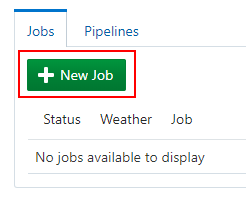
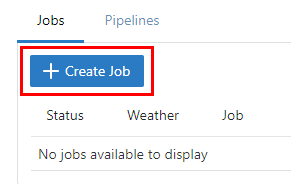
Updates for new trials

Changed region(s): [[0.0569, 0.0272, 1.0, 0.6793], [0.0569, 0.7337, 1.0, 0.9511], [0.3415, 0.0815, 0.5691, 0.1902]]

diff --git a/workshops/devcs-mysql/Lab100.md b/workshops/devcs-mysql/Lab100.md
@@ -406,7 +406,7 @@ In this step Software Templates define what supporting software packages get inc
   "user_ocid":"USER-HERE"
   ```
 
-  Becomes: **NOTE:** The values stay in double quotes
+  Becomes: **NOTE:** The values stay in double quotes:
 
   ```
   "user_ocid":"ocid1.user.oc1..aaaaaaaazusfrxnxk3qx3fxxx75ynagfsmtdoorkfffb2hqu6rxnxcfjpcwa"
@@ -420,22 +420,22 @@ In this step Software Templates define what supporting software packages get inc
 
   ```
   "region": "<your-region>"
-  "base_image_ocid": "<The OCID of the base image associated with your region. The comments section at the top of the file contains the default values... the current default is for the ASHBURN region>"
+  "base_image_ocid": "<The OCID of the base image associated with your region. The comments section at the top of the file contains the values... the current default is for the ASHBURN region>"
   ```
 
-- Click the **Commit** button. Also click **Commit** at the pop up dialog prompt.
+- Click the **Commit** button. Also, **add a comment** and click **Commit** at the pop up dialog prompt.
 
    ![](images/100/56.PNG)
 
-### **Step 10**: Build the Packer job
+### **Step 11**: Build the Packer job
 
-In this step you will define a Packer build using the Software Template you created in Step 7. This will build and create a Custom Image with MYSQL installed into your Compute Service.
+In this step you will define a Packer build using the Software Template you created in Step 7. This will build and create a Custom Image with MYSQL, GIT, and Docker installed into your Compute Service compartment.
 
-- From the project menu click the **Build** link.
+- From the project menu click the **Builds** link.
 
    ![](images/100/57.PNG)
 
-- Click **New Job**.
+- Click **+Create Job**.
 
    ![](images/100/58.PNG)
 
@@ -449,13 +449,11 @@ In this step you will define a Packer build using the Software Template you crea
 
    ![](images/100/59.PNG)
 
-- Under the Source Control tab select **Git** and then choose the **MYSQL-PackerTerraform.git** repository.
+- Under the Git tab select **Add Git** and then choose the **MYSQL-PackerTerraform.git** repository.
 
   ![](images/100/60.PNG)
 
-  ![](images/100/61.PNG)
-
-- Select the **Builders** tab and choose **Unix Shell Builder**.
+- Select the **Steps** tab and choose **Unix Shell**.
 
   ![](images/100/62.PNG)
 
@@ -473,7 +471,9 @@ In this step you will define a Packer build using the Software Template you crea
 
   The script fires off a Packer build based on the `build.json` contents and then places the OCID of the newly created Custom Image into an environment variable which can be referenced from other builds.
 
-- Select the **Post Build** tab and add the **Artifact Archiver** Post Build Action. Enter the following into the **Files to Archive** field:
+- Select the **After Build** tab and add the **Artifact Archiver** After Build Action. Enter the following into the **Files to Archive** field:
+
+   ![](images/100/64-6.PNG)
 
   ```
   image_OCID
@@ -487,7 +487,7 @@ In this step you will define a Packer build using the Software Template you crea
 
    ![](images/100/66.PNG)
 
-- The screen will update to show the build is queued. It may take several minutes for the queuing / build to finish. You can check the process by clicking on the **Build Log** icon once the build is in the running phase. 
+- The screen will update to show the build is queued. The first build may take 10-15 minutes or more as it first has to buld the "Build Server" used for subsequent build going forward. You can check the process by clicking on the **Build Log** icon once the build is in the running phase. 
 
    ![](images/100/67.PNG)
 
